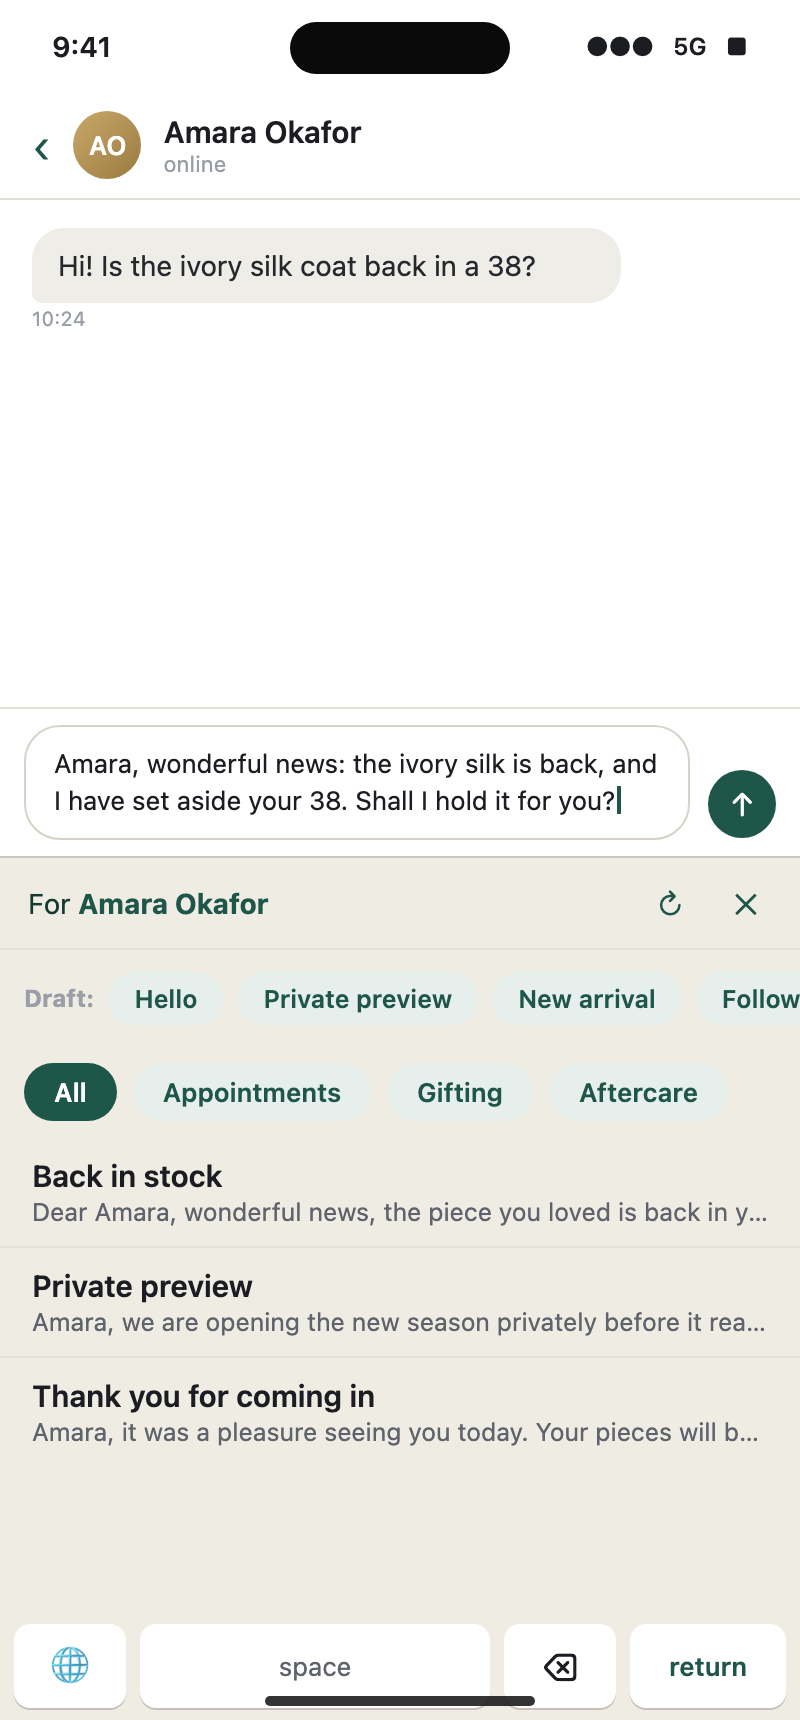
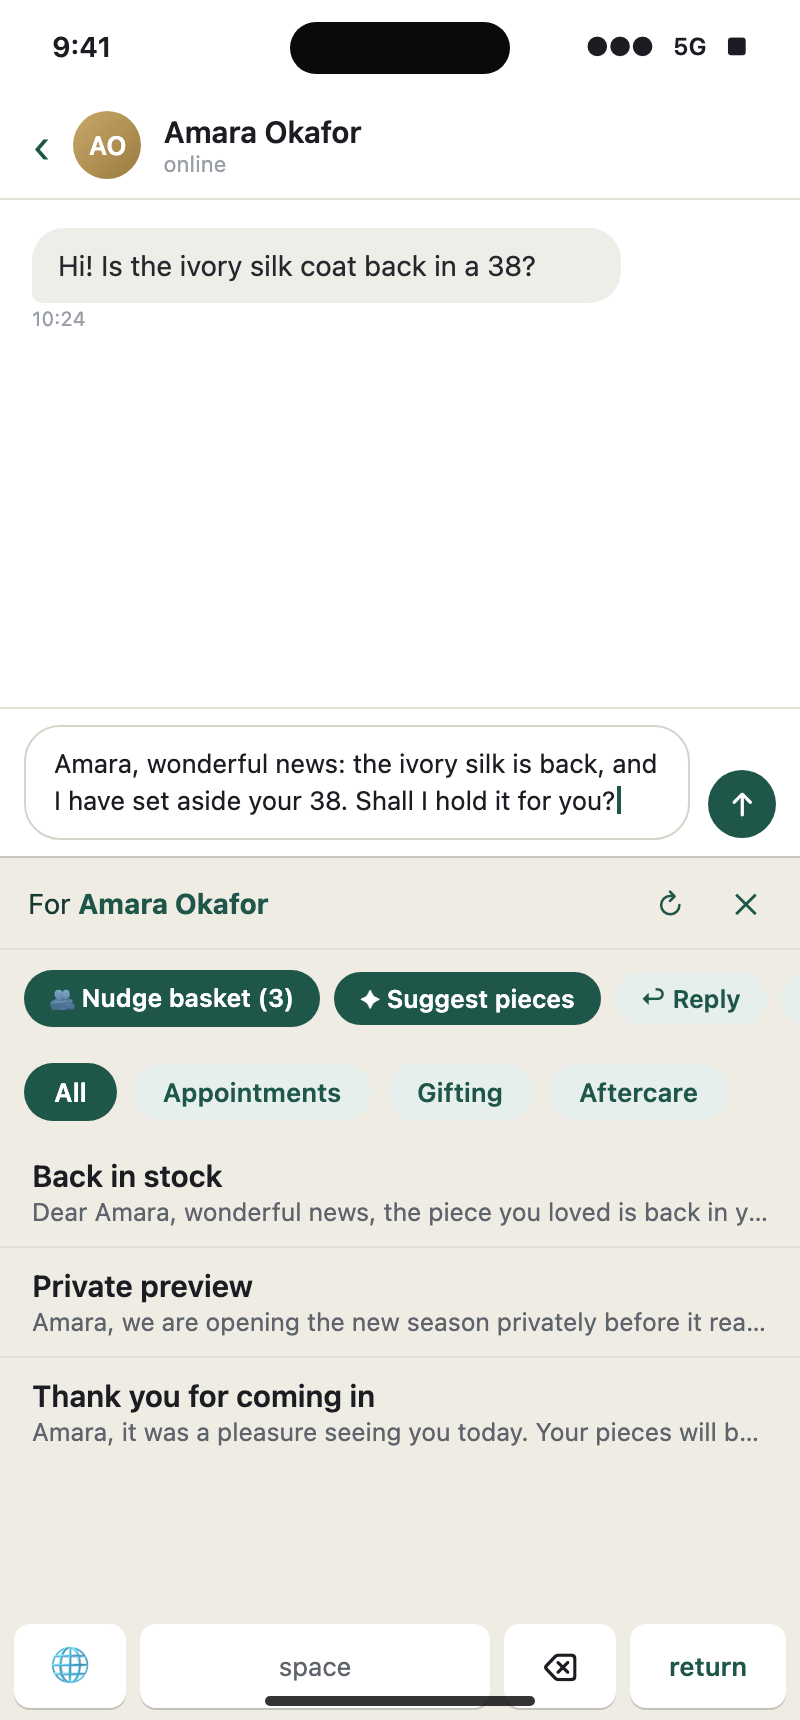
ios: open-basket nudge
When a client is looked up, the lookup response's cart field (an
abandoned checkout: item count + recovery link) is decoded. If they have
an open basket, a '🧺 Nudge basket (N)' chip appears. Tapping it drafts a
warm, no-pressure recovery message (via /v1/extension/draft); Insert
places it with the checkout link appended, so the client can complete in
one tap. The basket link is carried across refines and cleared on
insert/back. Both targets type-check; the cart decode (item count, null,
absent) is proven by running the decoder. README + composer mock updated.

Changed region(s): [[0.0312, 0.5547, 1.0, 0.6163]]

diff --git a/ios/HaliaKeyboard/Keyboard/KeyboardViewController.swift b/ios/HaliaKeyboard/Keyboard/KeyboardViewController.swift
@@ -52,6 +52,9 @@ final class KeyboardViewController: UIInputViewController, UITableViewDataSource
     private var suggestions: [SuggestRow] = []
     private var draftText = ""
     private var lastThread: [[String: String]]?
+    private var cartUrl: String?         // the client's open basket (recovery link), if any
+    private var cartCount: Int?
+    private var pendingCartUrl: String?  // append this recovery link when the current draft is inserted
 
     private var templates: [Template] = []
     private var categories: [String] = []
@@ -174,21 +177,23 @@ final class KeyboardViewController: UIInputViewController, UITableViewDataSource
         }
         currentRef = ref
         clientName = ref.kind == .name ? ref.value : nil
-        clientCid = nil; mode = .templates; suggestions = []; draftText = ""
+        clientCid = nil; cartUrl = nil; cartCount = nil
+        mode = .templates; suggestions = []; draftText = ""
         setStatus("Looking up…")
         Task {
             do {
                 let res = try await HaliaAPI.current.lookup(ref)
                 if let n = res.name, !n.isEmpty { clientName = n }
                 clientCid = res.cid
+                if let u = res.cart?.url, !u.isEmpty { cartUrl = u; cartCount = res.cart?.count }
             } catch { /* keep the copied ref; personalisation still works by name */ }
             setStatus(nil); reload()
         }
     }
 
     private func clearClient() {
-        currentRef = nil; clientName = nil; clientCid = nil
-        mode = .templates; suggestions = []; draftText = ""
+        currentRef = nil; clientName = nil; clientCid = nil; cartUrl = nil; cartCount = nil
+        mode = .templates; suggestions = []; draftText = ""; pendingCartUrl = nil
         setStatus(nil); reload()
     }
 
@@ -226,6 +231,10 @@ final class KeyboardViewController: UIInputViewController, UITableViewDataSource
             let show = (currentRef != nil) && hasFullAccess && (statusText == nil)
             actionHeight.constant = show ? 46 : 0; actionScroll.isHidden = !show
             guard show else { return }
+            if cartUrl != nil {
+                let n = (cartCount ?? 0) > 0 ? " (\(cartCount!))" : ""
+                actionStack.addArrangedSubview(pillButton("🧺 Nudge basket\(n)", filled: true) { [weak self] in self?.nudgeBasket() })
+            }
             actionStack.addArrangedSubview(pillButton("✦ Suggest pieces", filled: true) { [weak self] in self?.suggestPieces() })
             actionStack.addArrangedSubview(pillButton("↩ Reply", filled: false) { [weak self] in self?.replyToCopied() })
             if clientCid != nil {
@@ -244,8 +253,9 @@ final class KeyboardViewController: UIInputViewController, UITableViewDataSource
 
     // MARK: - Draft (personal message, previewed before it goes in)
 
-    private func startDraft(instruction: String, thread: [[String: String]]?) {
+    private func startDraft(instruction: String, thread: [[String: String]]?, cartUrl: String? = nil) {
         guard let ref = currentRef, !busy else { return }
+        pendingCartUrl = cartUrl   // appended to the message only when this draft is inserted
         busy = true; setStatus("Drafting…")
         Task {
             do {
@@ -262,6 +272,14 @@ final class KeyboardViewController: UIInputViewController, UITableViewDataSource
         }
     }
 
+    private func nudgeBasket() {
+        guard cartUrl != nil else { return }
+        startDraft(instruction: "They started an order but did not finish checking out (an open "
+                   + "basket). Write a warm, personal message offering to help them complete it or "
+                   + "answer any questions, gently and without pressure. Do not mention amounts.",
+                   thread: nil, cartUrl: cartUrl)
+    }
+
     private func replyToCopied() {
         guard hasFullAccess else { flash("Turn on Full Access in Settings"); return }
         let msg = (UIPasteboard.general.string ?? "").trimmingCharacters(in: .whitespacesAndNewlines)
@@ -273,13 +291,15 @@ final class KeyboardViewController: UIInputViewController, UITableViewDataSource
     private func refine(_ modifier: String) {
         guard mode == .draft, !busy, !draftText.isEmpty else { return }
         startDraft(instruction: modifier + " Keep it in the house voice. Current draft to adjust: " + draftText,
-                   thread: lastThread)
+                   thread: lastThread, cartUrl: pendingCartUrl)   // keep the basket link across refines
     }
 
     private func insertDraft() {
         guard !draftText.isEmpty else { return }
-        textDocumentProxy.insertText(draftText)
-        mode = .templates; draftText = ""; lastThread = nil; reload()
+        var text = draftText
+        if let url = pendingCartUrl, !url.isEmpty { text += "\n\n" + url }   // a basket nudge carries the recovery link
+        textDocumentProxy.insertText(text)
+        mode = .templates; draftText = ""; lastThread = nil; pendingCartUrl = nil; reload()
     }
 
     // MARK: - Suggestions
@@ -318,7 +338,7 @@ final class KeyboardViewController: UIInputViewController, UITableViewDataSource
         }
     }
 
-    private func backToTemplates() { mode = .templates; suggestions = []; draftText = ""; reload() }
+    private func backToTemplates() { mode = .templates; suggestions = []; draftText = ""; pendingCartUrl = nil; reload() }
 
     // MARK: - Log contacted
 

diff --git a/ios/HaliaKeyboard/Shared/HaliaAPI.swift b/ios/HaliaKeyboard/Shared/HaliaAPI.swift
@@ -44,16 +44,32 @@ struct HaliaAPI {
 
     // MARK: Lookup (keyboard) — we take the name and cid; the grade is deliberately ignored.
 
+    /// An open basket (abandoned checkout): how many items and the recovery link.
+    struct Cart: Decodable {
+        let count: Int?
+        let url: String?
+        private enum K: String, CodingKey { case count, url }
+        init(from decoder: Decoder) throws {
+            let c = try decoder.container(keyedBy: K.self)
+            url = (try? c.decodeIfPresent(String.self, forKey: .url)) ?? nil
+            if let t = (try? c.decodeIfPresent(Scalar.self, forKey: .count))?.text {
+                count = Int(Double(t) ?? 0)
+            } else { count = nil }
+        }
+    }
+
     struct LookupResult: Decodable {
         let found: Bool?
         let name: String?
         let cid: String?
-        private enum K: String, CodingKey { case found, name, cid }
+        let cart: Cart?
+        private enum K: String, CodingKey { case found, name, cid, cart }
         init(from decoder: Decoder) throws {
             let c = try decoder.container(keyedBy: K.self)
             found = (try? c.decodeIfPresent(Bool.self, forKey: .found)) ?? nil
             name  = (try? c.decodeIfPresent(String.self, forKey: .name)) ?? nil
             cid   = (try? c.decodeIfPresent(Scalar.self, forKey: .cid))?.text   // cid may be number or string
+            cart  = (try? c.decodeIfPresent(Cart.self, forKey: .cart)) ?? nil
         }
     }
 

diff --git a/ios/HaliaKeyboard/README.md b/ios/HaliaKeyboard/README.md
@@ -14,6 +14,8 @@ It works in two layers:
    - the intent chips **draft** a personal message in your house voice, which you can **refine**
      (warmer / shorter / more formal) before it goes in;
    - **Reply** drafts a response to a message you copied from the client;
+   - **Nudge basket** appears when the client left an open basket, and drafts a warm recovery note
+     with the checkout link;
    - **Suggest pieces** recommends products from your catalogue, sent as a branded catalogue link;
    - **Mark contacted** logs the outreach to your shared team pipeline so nobody double-messages.
 
@@ -96,6 +98,8 @@ Keyboard/              (add to the KEYBOARD target only)
    - **Reply:** copy the client's last message, tap **Reply**, and it drafts a response to it.
    - **Refine:** a drafted message shows in the keyboard first. Tap **Warmer**, **Shorter**, or
      **More formal** to adjust it, then **Insert** to place it in the chat.
+   - **Nudge basket:** if the client has an open basket, a 🧺 chip appears. Tap it to draft a warm
+     recovery message; **Insert** places it with the checkout link appended.
    - **Mark contacted:** logs this outreach to your shared pipeline (Shopify), so the team sees it.
 
 ## The name slot
